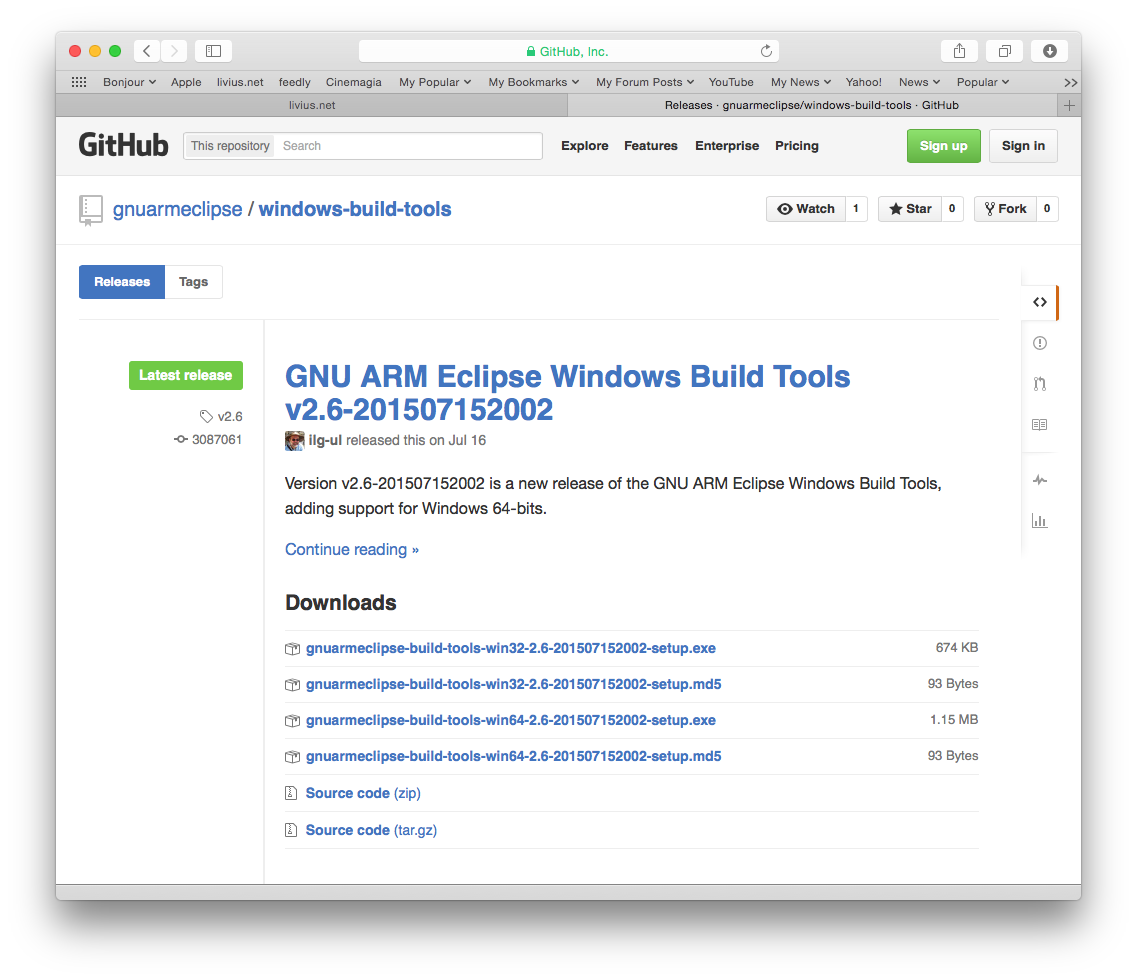
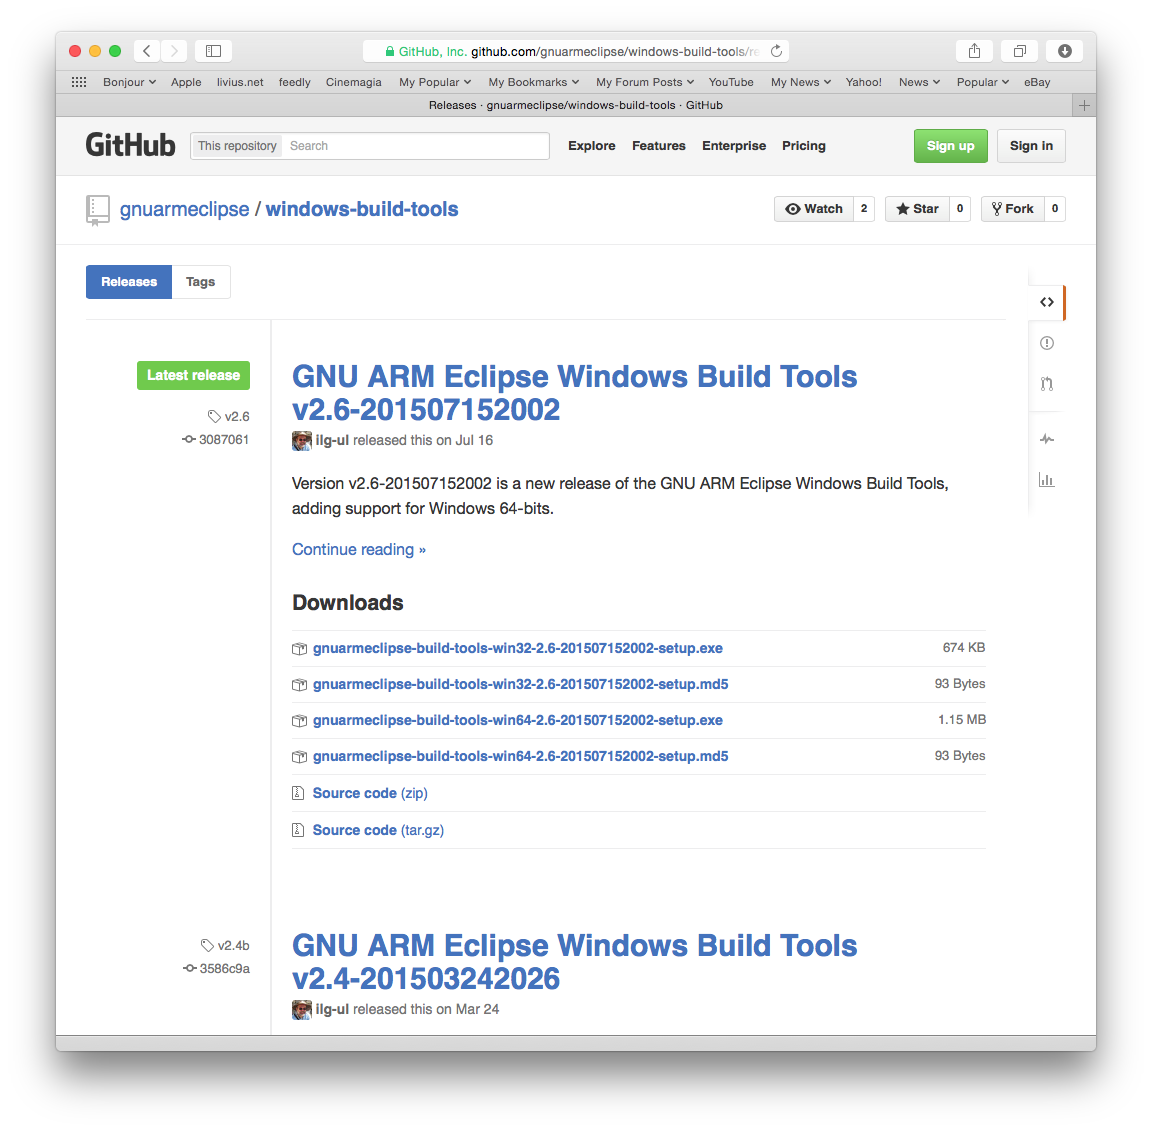
download pages for all tools added

diff --git a/site/plugins/downloads.md b/site/plugins/downloads.md
@@ -5,29 +5,21 @@ title: Downloads
 author: Liviu Ionescu
 
 date: 2015-09-11 20:07:00
-last_modified_at: 2015-09-12 19:17:00
+last_modified_at: 2015-09-16 20:45:00
 
 ---
 
-### The SourceForge way
+## The Eclipse way
 
-All versions of the plug-in are available via the standard [SourceForge Files](http://sourceforge.net/projects/gnuarmeclipse/files/gnuarmeclipse/) facility. Just navigate to the [Current Releases](http://sourceforge.net/projects/gnuarmeclipse/files/Current%20Releases/) folder and select the 1.x folder. Then download the most recent archive, it should be a **zip** file with a long name like:
-  ilg.gnuarmeclipse.repository-1.1.0-201310161930.zip
+Installing Eclipse usually does not require to separately download any binary, since Eclipse provides a special mechanism to install and update plug-ins.
 
-
-Please be aware that the Source Forge link to the **latest version may not be up-to-date**, and it is better to check the [Current Releases](http://sourceforge.net/projects/gnuarmeclipse/files/Current%20Releases/) folder.
-
-Also please note that not all plug-in versions run on all Eclipse versions, and usually new plug-in versions may require new Eclipse versions, so better try to stay as up-to-date with the Eclipse as possible. (For Eclipse Kepler 4.3 and later, use versions 1.x; for older Eclipses, try the final 0.5.5 version, but keep in mind it is no longer maintained).
-
-### The Eclipse way
-
-Once you start using this plug-in, further updates are available via the Eclipse standard install/update mechanism, using the following URL:
+The GNU ARM Eclipse plug-ins update site URL is still on SourceForge:
 
 `http://gnuarmeclipse.sourceforge.net/updates`
 
-If after selecting the update site the Eclipse does not present any plug-in, you have to disable the **Group items by category**, and the **GNU ARM C/C++ Development Support** is shown.
+More details are available in the [Install](/plugins/install/) page.
 
-### Previews
+### Beta versions
 
 For previews, experimental releases are posted to a separate update site:
 
@@ -37,7 +29,16 @@ Sometimes you can use this site to test some features that are not completely im
 
 This site is not always updated; use it carefully, back up your workspace, and do not use it for production projects.
 
-### Rate and Review
+## The local archive way
 
-If you successfully installed and used this plug-in, we'd be honoured to receive ratings (in the main [Project page](http://sourceforge.net/projects/gnuarmeclipse)), and eventually a short review (in the main [Write a Review](http://sourceforge.net/projects/gnuarmeclipse/reviews/new) page).
+If, for any reasons, you need to revert to a specific version, or the Eclipse mechanism to install new software fails,  you can always download the desired version and manually install the plug-ins from the local archive.
 
+All versions of the plug-ins are available via the [GitHub Releases](https://github.com/gnuarmeclipse/plug-ins/releases) page. For details how to reach it, see the [Downloads]({{ site.baseurl }}/downloads/) page.
+
+![Plug-ins Releases]({{ site.baseurl }}/images/2015/github-gae-plugins-releases.png)
+
+Just navigate to the [Latest release](https://github.com/gnuarmeclipse/plug-ins/releases/latest) page (or the desired version) and download the attached archive, it should be a **zip** file with a long name like:
+
+`ilg.gnuarmeclipse.repository-2.9.3-201508190739.zip`
+
+Please note that not all plug-in versions run on all Eclipse versions, and usually new plug-in versions may require new Eclipse versions, so better try to stay as up-to-date with the Eclipse as possible. (For Eclipse Kepler 4.3 and later, use versions 1.x; for older Eclipses, try the final 0.5.5 version, but keep in mind it is no longer maintained).

diff --git a/qemu/download.md b/qemu/download.md
@@ -1,0 +1,28 @@
+---
+layout: page
+permalink: /qemu/download/
+title: How to download the GNU ARM Eclipse QEMU
+author: Liviu Ionescu
+
+date: 2015-09-16 20:15:00
+last_modified_at: 2015-09-16 20:45:00
+
+---
+
+## GitHub Releases
+
+All versions of the GNU ARM Eclipse QEMU are available via the [GitHub Releases](https://github.com/gnuarmeclipse/qemu/releases) page. For details how to reach it, see the [Downloads]({{ site.baseurl }}/downloads/) page.
+
+![QEMU Releases]({{ site.baseurl }}/images/2015/github-gae-qemu-releases.png)
+
+## Windows, GNU/Linux, OS X
+
+All major platforms are supported. However releases might not include binaries for all platforms, so navigate to the most recent release which includes support for your platform and download the desired binaries.
+
+## 64/32-bits
+
+If running on a modern 64-bits system, it is highly recommended to download the 64-bits version, since running 32-bits applications on 64-bits systems sometimes fails due to some missing libraries.
+
+Starting with version v2.3.50 there are also separate 64/32-bits binaries for Windows. For Windows the recommendation stands even stronger, to reduce the risk of 32-bits DLL rebases.
+
+Note: For OS X only the 64-bits Intel binaries are available, and it is recommended to use a recent system.

diff --git a/openocd/download.md b/openocd/download.md
@@ -1,0 +1,28 @@
+---
+layout: page
+permalink: /openocd/download/
+title: How to download the GNU ARM Eclipse OpenOCD
+author: Liviu Ionescu
+
+date: 2015-09-16 20:39:00
+last_modified_at: 2015-09-16 20:45:00
+
+---
+
+## GitHub Releases
+
+All versions of the GNU ARM Eclipse OpenOCD are available via the [GitHub Releases](https://github.com/gnuarmeclipse/openocd/releases) page. For details how to reach it, see the [Downloads]({{ site.baseurl }}/downloads/) page.
+
+![OpenOCD Releases]({{ site.baseurl }}/images/2015/github-gae-openocd-releases.png)
+
+## Windows, GNU/Linux, OS X
+
+All major platforms are supported. However releases might not include binaries for all platforms, so navigate to the most recent release which includes support for your platform and download the desired binaries.
+
+## 64/32-bits
+
+If running on a modern 64-bits system, it is highly recommended to download the 64-bits version, since running 32-bits applications on 64-bits systems sometimes fails due to some missing libraries.
+
+For Windows the recommendation stands even stronger, to reduce the risk of 32-bits DLL rebases.
+
+Note: For OS X only the 64-bits Intel binaries are available, and it is recommended to use a recent system.

diff --git a/site/licenses/plug-ins.md b/site/licenses/plug-ins.md
@@ -6,6 +6,7 @@ author: Liviu Ionescu
 
 date: 2015-09-08 23:25:00
 last_modified_at: 2015-09-10 23:12:00
+
 ---
 
 ## Copyright owner
@@ -18,7 +19,7 @@ As the sole copyright owner, Liviu Ionescu released the GNU ARM Eclipse plug-ins
 
 ## Commercial Contributors
 
-For a sustainable project development, Commercial Contributors are welcomed to share part of the development costs by means of commercial contracts (for maintenance, integration support or developing new features) and/or by sponsorships/donations (generally compensating for pre-exisiting work included in their derivative work). 
+For a sustainable project development, Commercial Contributors are welcomed to share part of the development costs by means of commercial contracts (for maintenance, integration support or developing new features) and/or by sponsorships/donations (generally compensating for pre-exisiting work included in their derivative work).
 
 ## Dual license?
 

diff --git a/windows-build-tools/download.md b/windows-build-tools/download.md
@@ -1,0 +1,20 @@
+---
+layout: page
+permalink: /windows-build-tools/download/
+title: How to download the GNU ARM Eclipse Windows Build Tools
+author: Liviu Ionescu
+
+date: 2015-09-16 20:02:00
+last_modified_at: 2015-09-16 20:45:00
+
+---
+
+## GitHub Releases
+
+All versions of the GNU ARM Eclipse Windows Build Tools are available via the [GitHub Releases](https://github.com/gnuarmeclipse/windows-build-tools/releases) page. For details how to reach it, see the [Downloads]({{ site.baseurl }}/downloads/) page.
+
+![Windows Build Tools Releases]({{ site.baseurl }}/images/2015/github-gae-build-tools-releases.png)
+
+## 64/32-bits
+
+Starting with version v2.6 there are separate 64/32-bits binaries. If running a modern 64-bits Windows, it is highly recommended to download the 64-bits version, since it not only reduces the risk of 32-bits DLL rebases, but also the 64-bits `make` seems to run slightly faster.

diff --git a/site/sidebar.md b/site/sidebar.md
@@ -12,13 +12,13 @@
 
 #### [Features]({{ site.baseurl }}/plugins/features/)
 
-#### Downloads
+#### [Downloads]({{ site.baseurl }}/downloads/)
 
 * [Overview]({{ site.baseurl }}/downloads/)
 * [Plug-ins]({{ site.baseurl }}/plugins/download/) ([releases]({{ site.baseurl }}/developer/releases/))
-* Windows Build Tools ([releases]({{ site.baseurl }}/windows-build-tools/releases/))
-* QEMU ([releases]({{ site.baseurl }}/qemu/releases/))
-* OpenOCD ([releases]({{ site.baseurl }}/openocd/releases/))
+* [Windows Build Tools]({{ site.baseurl }}/windows-build-tools/download/) ([releases]({{ site.baseurl }}/windows-build-tools/releases/))
+* [QEMU]({{ site.baseurl }}/qemu/download/) ([releases]({{ site.baseurl }}/qemu/releases/))
+* [OpenOCD]({{ site.baseurl }}/openocd/download/) ([releases]({{ site.baseurl }}/openocd/releases/))
 
 #### Install
 
